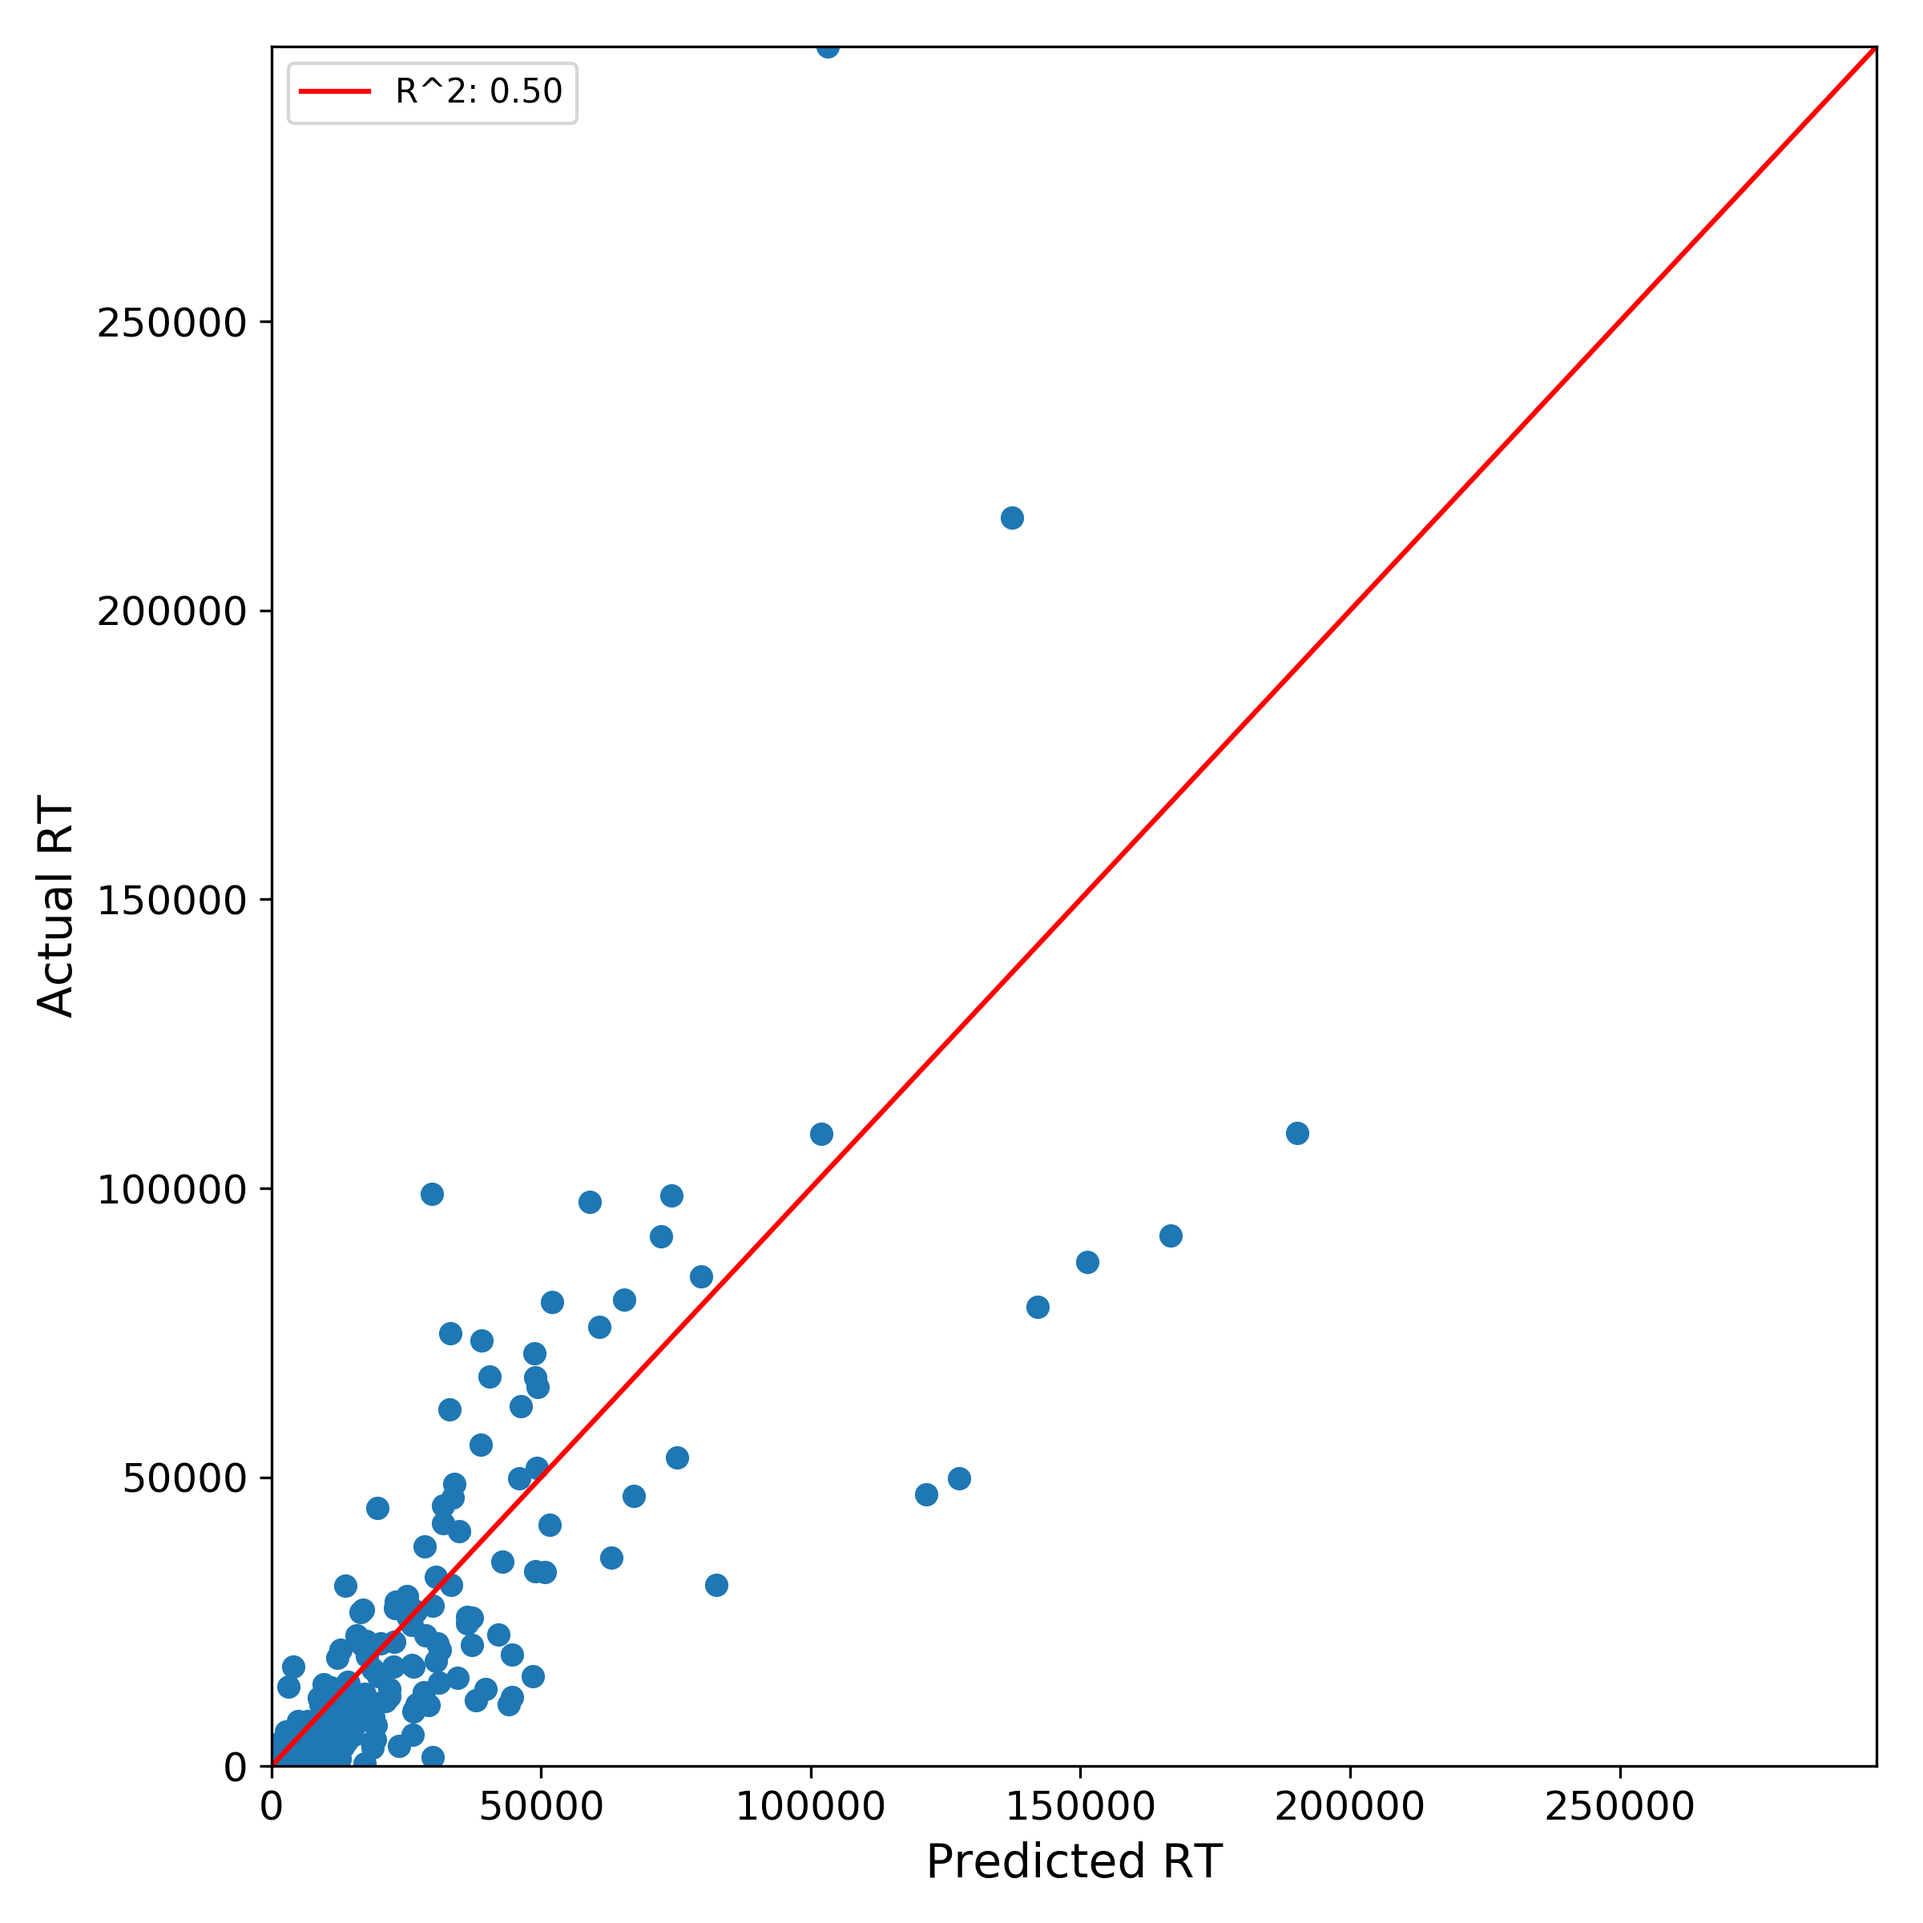
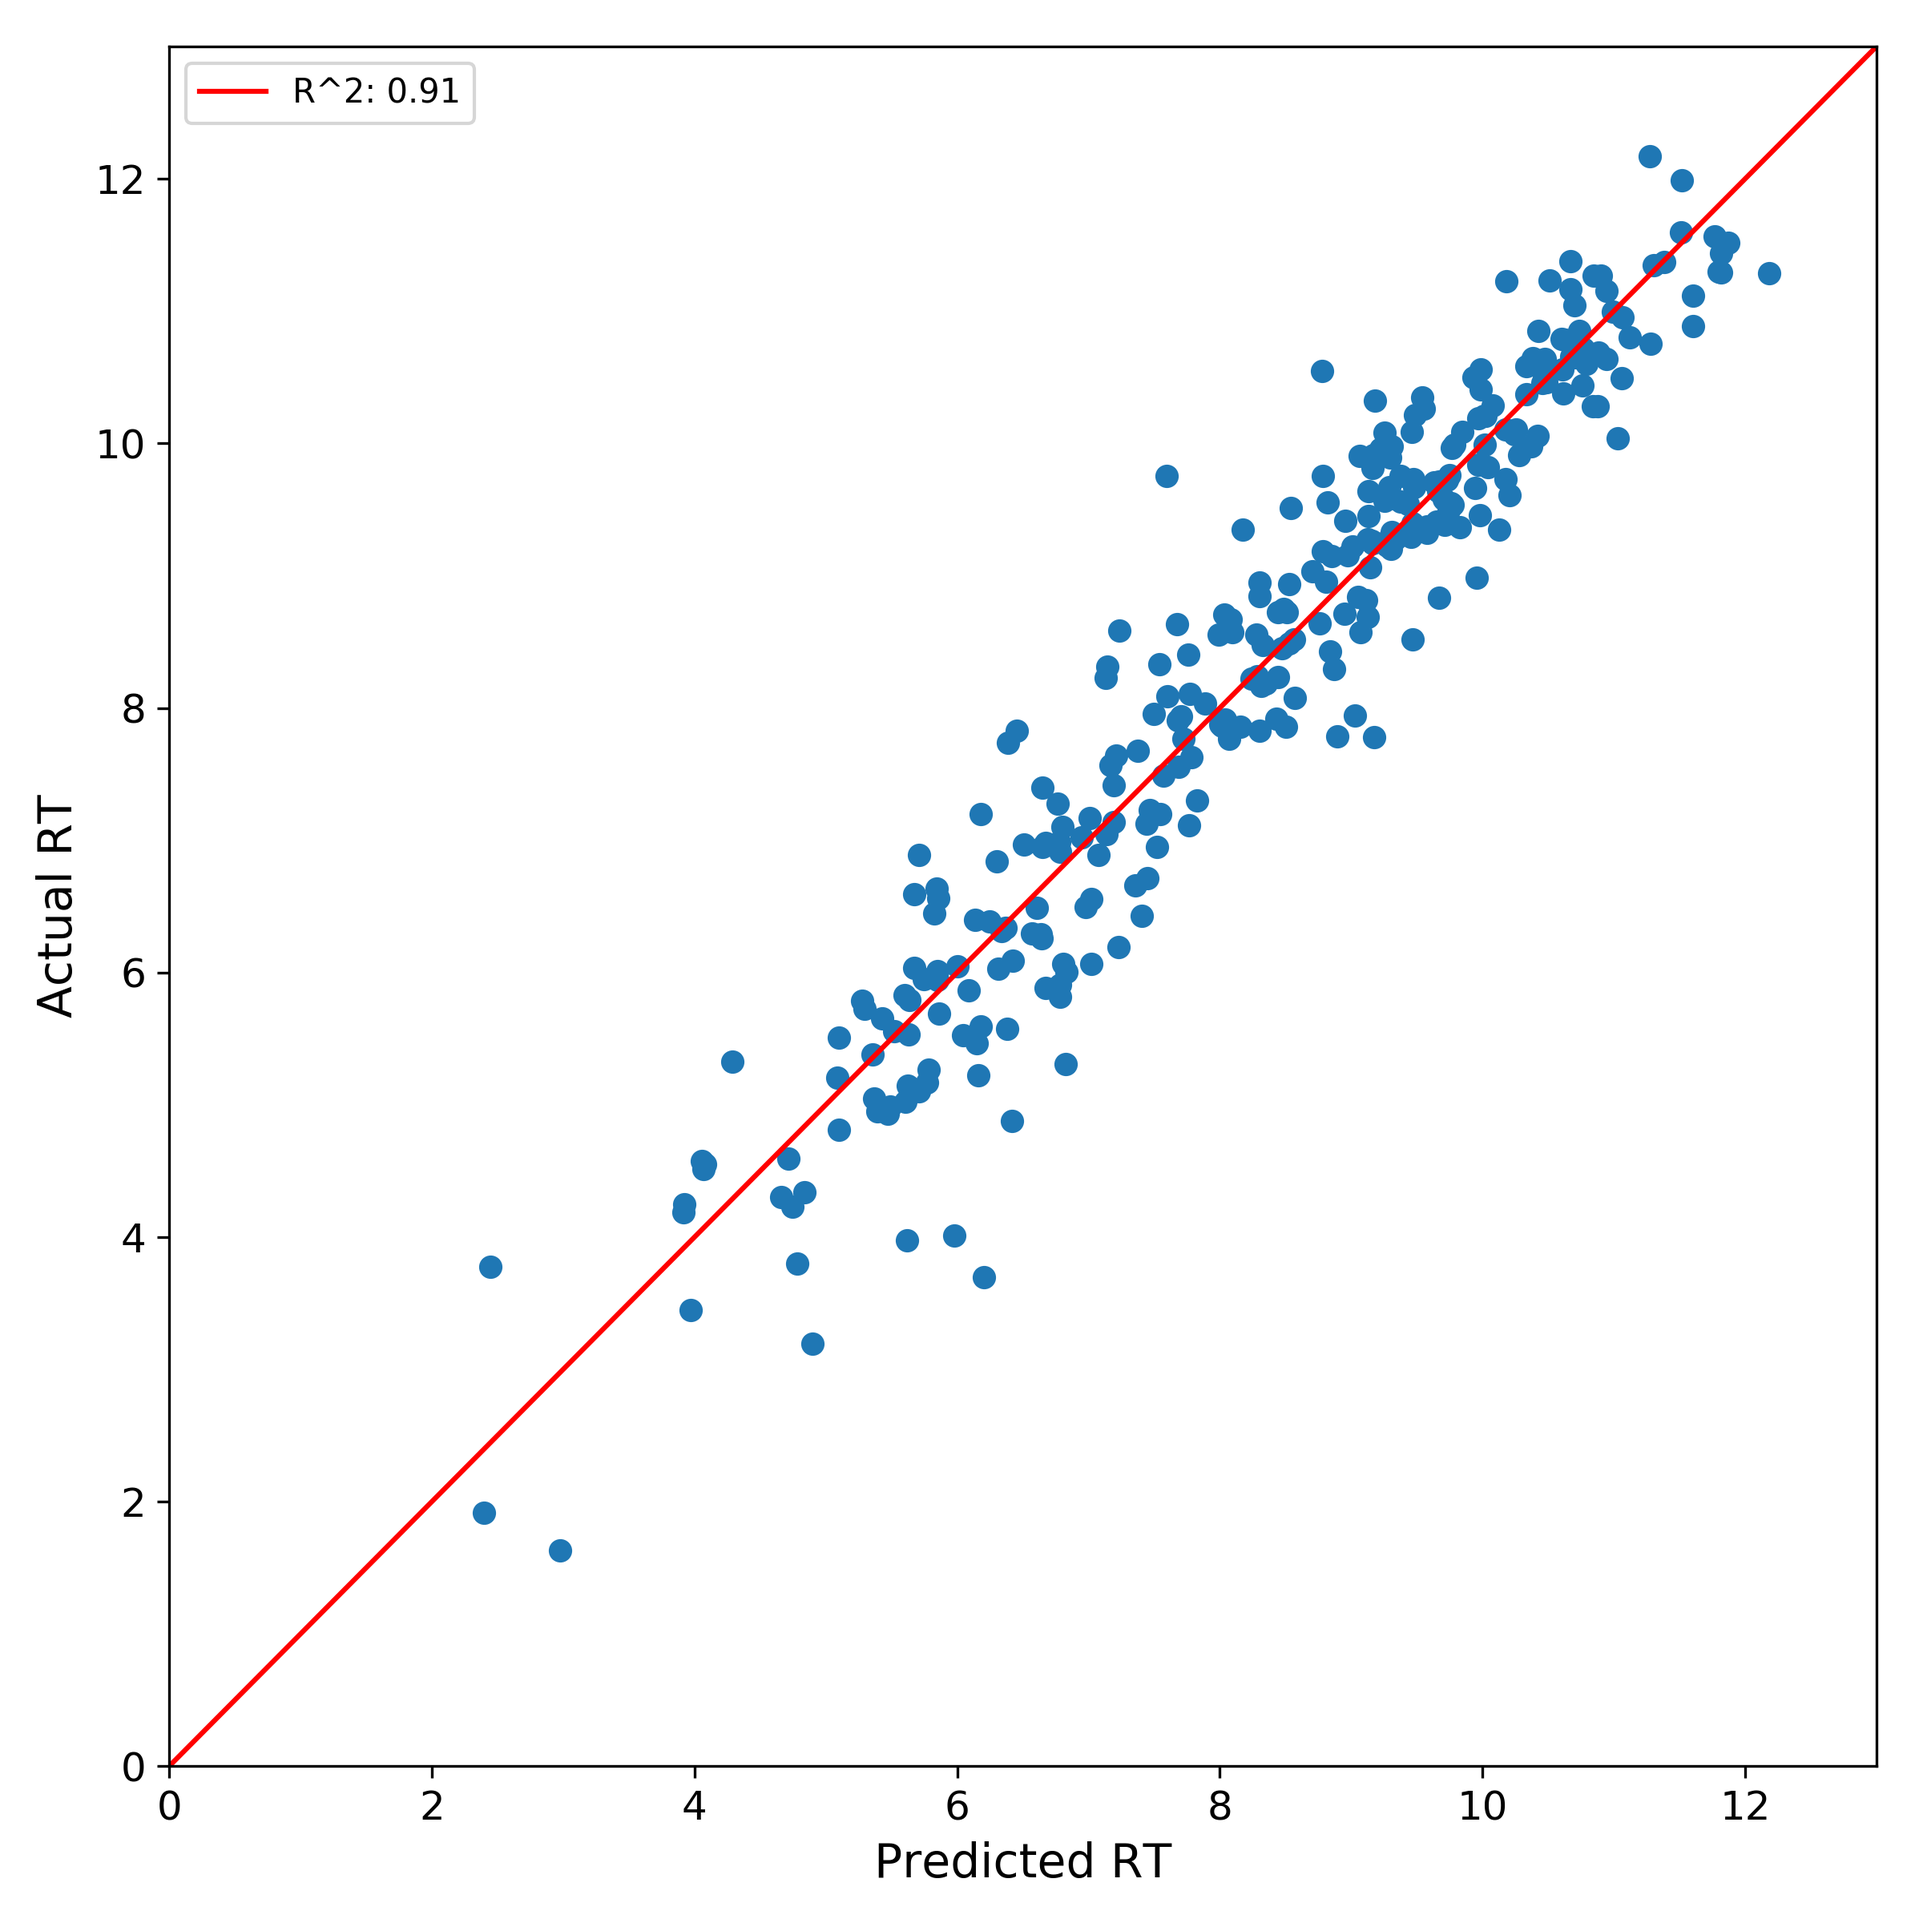
s

diff --git a/AlloyLearning.py b/AlloyLearning.py
@@ -1733,55 +1733,57 @@ if __name__ == "__main__":
     # save_fig('Actual vs Predicted MLP Final Test')
 
     # Gradient Boosting Regression##########################################
-    N9_12Cr = AlloyDataPreper(Dataset='9_12_Cr.csv',
-                            label='RT',
-                            dropna_cols=dropna9_12Cr_MLP,
-                            exclude_cols=exclude9_12Cr_MLP,
-                            fill_vals=fill_vals,
-                            )
-    Data = N9_12Cr.prep_it_split()
-    Data['preds']['RT'] = Data['labels']
-    E80D,T20D = train_test_split(Data['preds'],test_size=0.20)
-    E80DL = E80D['RT']
-    E80D = E80D.drop(['RT'],axis=1)
-    T20DL = T20D['RT']
-    T20D = T20D.drop(['RT'],axis=1)
+    # N9_12Cr = AlloyDataPreper(Dataset='9_12_Cr.csv',
+    #                         label='RT',
+    #                         dropna_cols=dropna9_12Cr_GB,
+    #                         exclude_cols=exclude9_12Cr_GB,
+    #                         fill_vals=fill_vals,
+    #                         )
+    # Data = N9_12Cr.log_it(['CS'],label=True)
+    # Data['preds']['log_RT'] = Data['labels']
+    # E80D,T20D = train_test_split(Data['preds'],test_size=0.20)
+    # E80DL = E80D['log_RT']
+    # E80D = E80D.drop(['log_RT'],axis=1)
+    # T20DL = T20D['log_RT']
+    # T20D = T20D.drop(['log_RT'],axis=1)
 
-    scaler = StandardScaler()
-    scaler.fit(E80D)
-    E80D = scaler.transform(E80D)
-    T20D = scaler.transform(T20D)
+    # scaler = StandardScaler()
+    # scaler.fit(E80D)
+    # E80D = scaler.transform(E80D)
+    # T20D = scaler.transform(T20D)
 
-    m_pg = {'learning_rate':0.25,
-            'max_depth':4,
-            'n_estimators':300,
-            }
-    m = GradientBoostingRegressor(**m_pg)
-    m.fit(E80D,E80DL)
-    results = m.predict(T20D)
+    # m_pg = {'learning_rate':0.25,
+    #         'max_depth':4,
+    #         'n_estimators':300,
+    #         }
+    # m = GradientBoostingRegressor(**m_pg)
+    # m.fit(E80D,E80DL)
+    # results = m.predict(T20D)
 
-    results = pd.Series(results,index=T20DL.index)
+    # T20DL = pd.Series(np.exp(T20DL),name=T20DL.name,index=T20DL.index)
+    # results = pd.Series(np.exp(results),name='Predicted RT',index=T20DL.index)
 
-    r_sq=r2_score(results,T20DL)
 
-    plt.figure(num=None, figsize=(8, 8), dpi=80, facecolor='w', edgecolor='k')
-    lim = int(max(max(results),max(T20DL)))+1
-    plt.scatter(results,T20DL)
-    plt.xlabel('Predicted RT')
-    plt.ylabel('Actual RT')
-    plt.xlim(0,lim)
-    plt.ylim(0,lim)
-    y = np.linspace(0, lim, 100)
-    x = y
-    plt.plot(x,y,c='r')
-    plt.legend(['R^2: %.2f'%(r_sq)])
-    save_fig('Actual vs Predicted Gradient Boosting Final Test')
+    # r_sq=r2_score(results,T20DL)
+
+    # plt.figure(num=None, figsize=(8, 8), dpi=80, facecolor='w', edgecolor='k')
+    # lim = int(max(max(results),max(T20DL)))+1
+    # plt.scatter(results,T20DL)
+    # plt.xlabel('Predicted RT')
+    # plt.ylabel('Actual RT')
+    # plt.xlim(0,lim)
+    # plt.ylim(0,lim)
+    # y = np.linspace(0, lim, 100)
+    # x = y
+    # plt.plot(x,y,c='r')
+    # plt.legend(['R^2: %.2f'%(r_sq)])
+    # save_fig('Actual vs Predicted Gradient Boosting Final Test 2')
 
     # Random Forest Regresssion #############################################
     N9_12Cr = AlloyDataPreper(Dataset='9_12_Cr.csv',
                             label='RT',
-                            dropna_cols=dropna9_12Cr_RF,
-                            exclude_cols=exclude9_12Cr_RF,
+                            dropna_cols=dropna9_12Cr,
+                            exclude_cols=exclude9_12Cr,
                             fill_vals=fill_vals,
                             )
     Data = N9_12Cr.prep_it_split()
@@ -1797,7 +1799,7 @@ if __name__ == "__main__":
     E80D = scaler.transform(E80D)
     T20D = scaler.transform(T20D)
     m_pg = {'n_jobs':-1,
-            'n_estimators':300,
+            'n_estimators':350,
             }
     m = RandomForestRegressor(**m_pg)
     m.fit(E80D,E80DL)
@@ -1818,7 +1820,7 @@ if __name__ == "__main__":
     x = y
     plt.plot(x,y,c='r')
     plt.legend(['R^2: %.2f'%(r_sq)])
-    save_fig('Actual vs Predicted Random Forests Final Test')
+    save_fig('Actual vs Predicted Random Forests Final Test log')
 
 
     # Final Evalutions ##########################################################################
